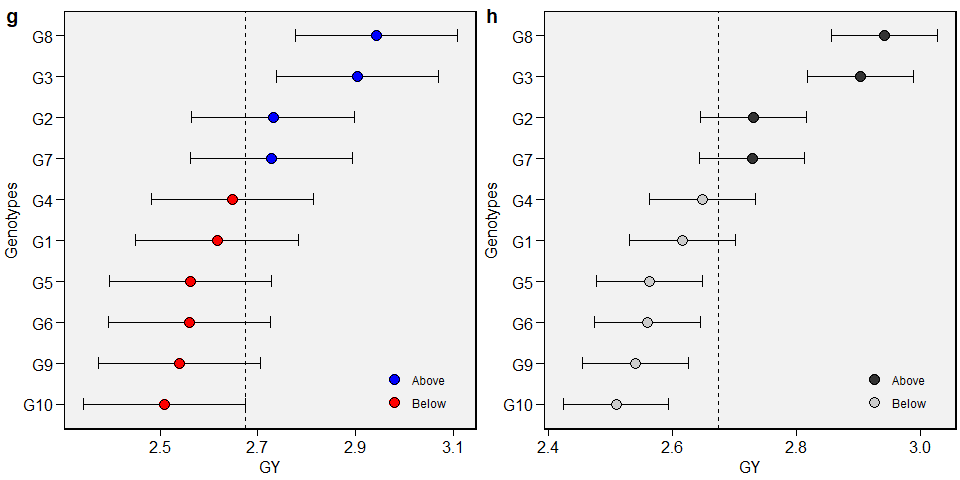
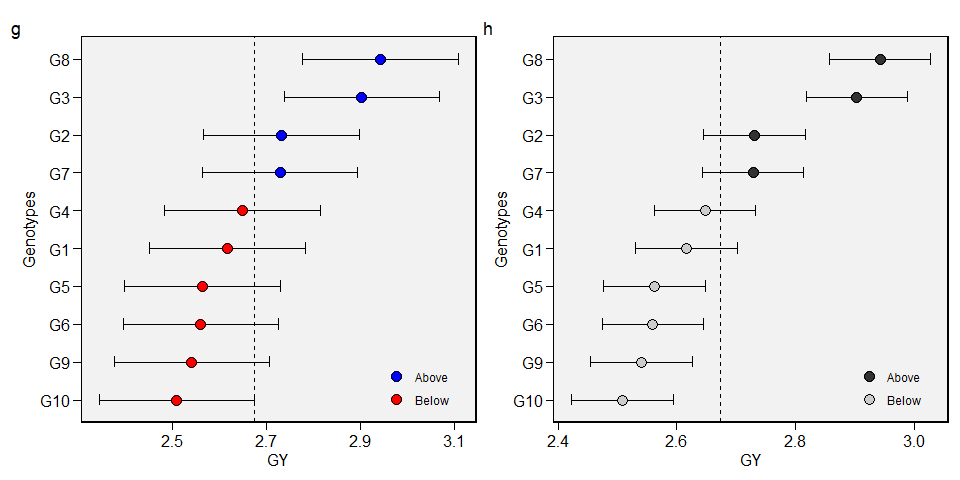
Import patchwork package

diff --git a/README.md b/README.md
@@ -222,7 +222,7 @@ b <- plot_scores(model,
                  col.segm.env = "gray70",
                  axis.expand = 1.5)
 c <- plot_scores(model, type = 4)
-arrange_ggplot(a, b, c, labels = letters[1:3], nrow = 1)
+arrange_ggplot(a, b, c, tag_levels = "a", nrow = 1)
 ```
 
 ![](man/figures/README-AMMI-1.png)<!-- -->
@@ -245,7 +245,7 @@ f <- plot(model2,
           col.gen = "black",
           col.env = "gray70",
           axis.expand = 1.5)
-arrange_ggplot(d, e, f, labels = letters[4:6], nrow = 1)
+arrange_ggplot(d, e, f, tag_levels = list(c("d", "e", "f")), nrow = 1)
 ```
 
 ![](man/figures/README-GGE-1.png)<!-- -->
@@ -302,7 +302,7 @@ h <- plot_blup(model2,
                prob = 0.2,
                col.shape = c("gray20", "gray80"),
                invert = TRUE)
-arrange_ggplot(g, h, labels = letters[7:8])
+arrange_ggplot(g, h, tag_levels = list(c("g", "h")))
 ```
 
 ![](man/figures/README-BLUP-1.png)<!-- -->
